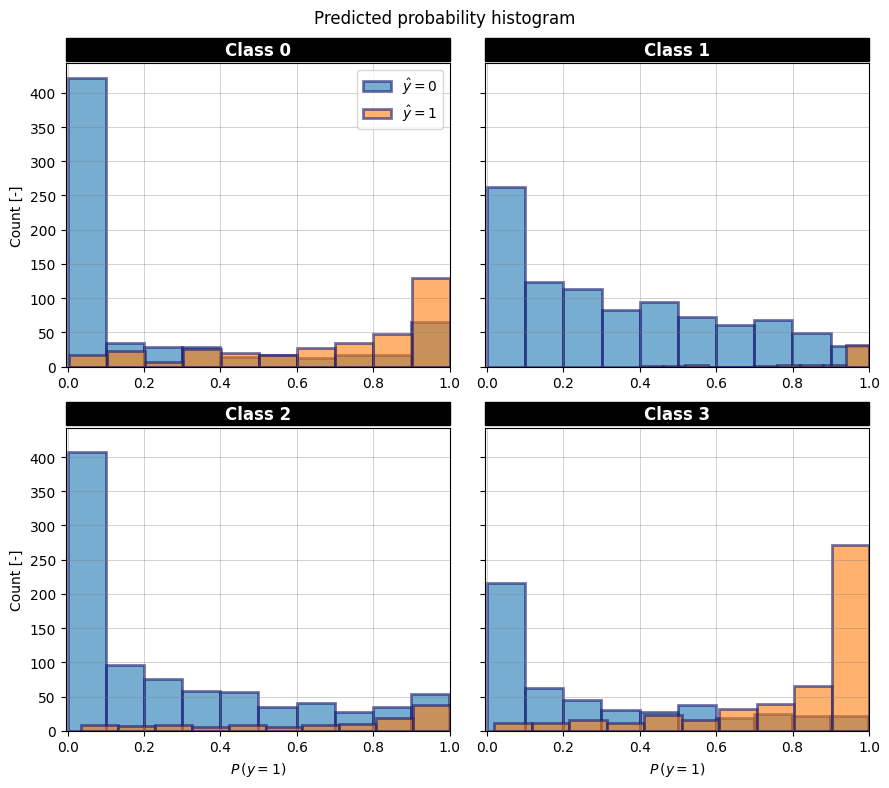
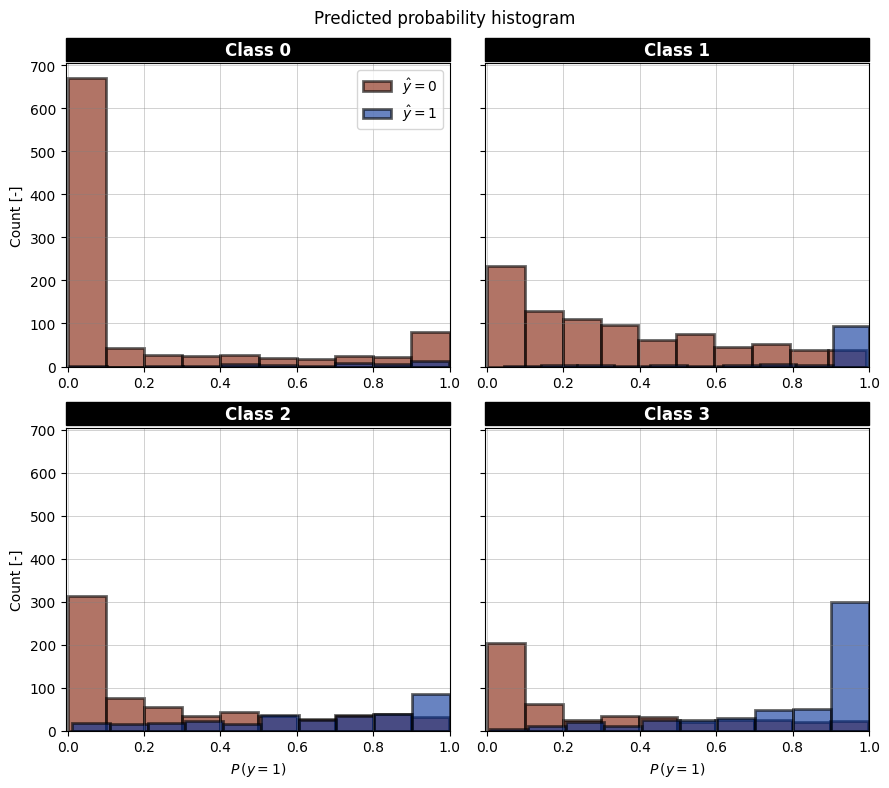
multi histogram: add color scheme and update docs

diff --git a/plotsandgraphs/multiclass_classifier.py b/plotsandgraphs/multiclass_classifier.py
@@ -268,10 +268,31 @@ def plot_roc_curve(
 
 
 def plot_y_prob_histogram(
-    y_true: np.ndarray, y_prob: Optional[np.ndarray] = None, save_fig_path=None
+    y_true: np.ndarray, y_score: Optional[np.ndarray] = None, save_fig_path: Optional[str]=None
 ) -> Figure:
+    """
+    Histogram plot that is intended to show the distribution of the predicted probabilities for different classes, where the the different classes (y_true==0 and y_true==1) are plotted in different colors. 
+    Limitations: Does not work for samples, that can be part of multiple classes (e.g. multilabel classification).
+
+    Parameters
+    ----------
+    y_true : np.ndarray
+        The actual labels of the data. Either 0 or 1. One hot encoded.
+    y_score : Optional[np.ndarray], optional
+        The y_scores as predictions of a model for a class, by default None
+    save_fig_path : Optional[str], optional
+        Path to folder where the figure should be saved. If None then plot is not saved, by default None.
+
+    Returns
+    -------
+    Figure
+        The figure of the histogram plot.
+    """
+    
     num_classes = y_true.shape[-1]
     class_labels = [f"Class {i}" for i in range(num_classes)]
+    
+    cmap, colors = get_cmap("roma", n_colors=2)  # 2 colors for y==0 and y==1 per class
     
     # Aiming for a square plot
     plot_cols = np.ceil(np.sqrt(num_classes)).astype(int)  # Number of plots in a row # noqa
@@ -294,15 +315,16 @@ def plot_y_prob_histogram(
             ax.axis("off")
             continue
 
-        if y_prob is not None:
+        if y_score is not None:
             y_true_i = y_true[:, i]
-            y_prob_i = y_prob[:, i]
+            y_prob_i = y_score[:, i]
             ax.hist(
                 y_prob_i[y_true_i == 0],
                 bins=10,
                 label="$\\hat{y} = 0$",
                 alpha=alpha,
-                edgecolor="midnightblue",
+                edgecolor="black",
+                color=colors[0],
                 linewidth=2,
                 rwidth=1,
             )
@@ -311,7 +333,8 @@ def plot_y_prob_histogram(
                 bins=10,
                 label="$\\hat{y} = 1$",
                 alpha=alpha,
-                edgecolor="midnightblue",
+                edgecolor="black",
+                color=colors[1],
                 linewidth=2,
                 rwidth=1,
             )

diff --git a/tests/test_multiclass_classifier.py b/tests/test_multiclass_classifier.py
@@ -57,7 +57,7 @@ def test_hist_plot():
     for num_classes in [1, 2, 3, 4, 5, 10, 16, 25]:
         y_true, y_prob = random_data_multiclass_classifier(num_classes=num_classes)
         print(TEST_RESULTS_PATH)
-        multiclass.plot_y_prob_histogram(y_true=y_true, y_prob=y_prob, save_fig_path=TEST_RESULTS_PATH / f"histogram_{num_classes}_classes.png")
+        multiclass.plot_y_prob_histogram(y_true=y_true, y_score=y_prob, save_fig_path=TEST_RESULTS_PATH / f"histogram_{num_classes}_classes.png")
         # multiclass.plot_y_prob_histogram(y_prob=y_prob, save_fig_path=TEST_RESULTS_PATH / "histogram_classes.png")
         
     
